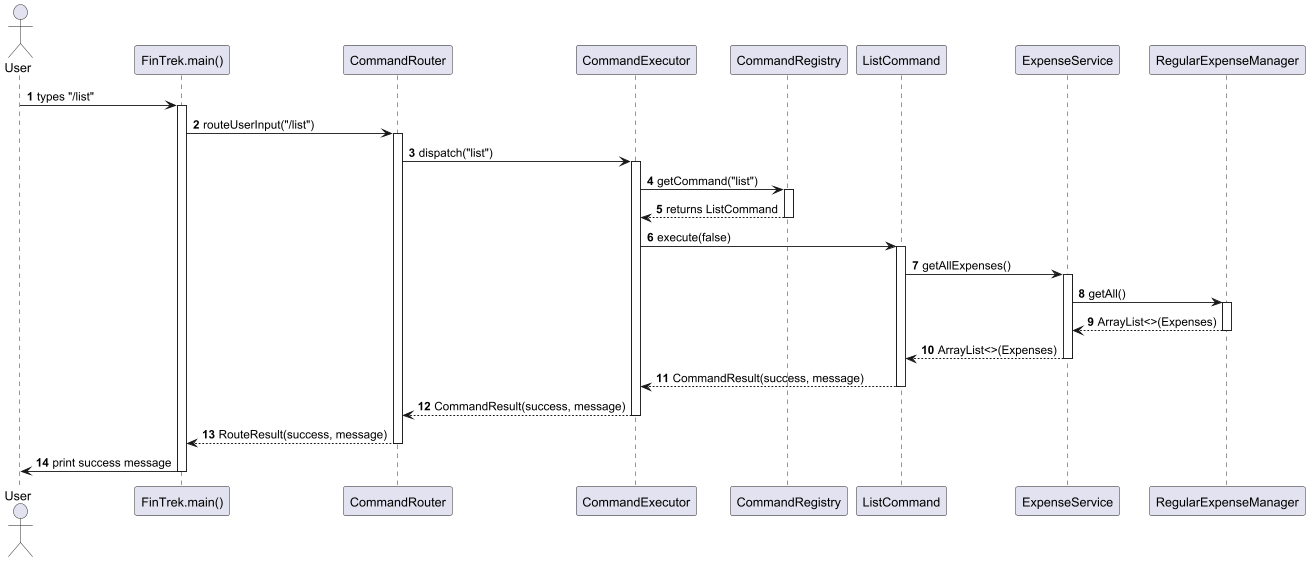
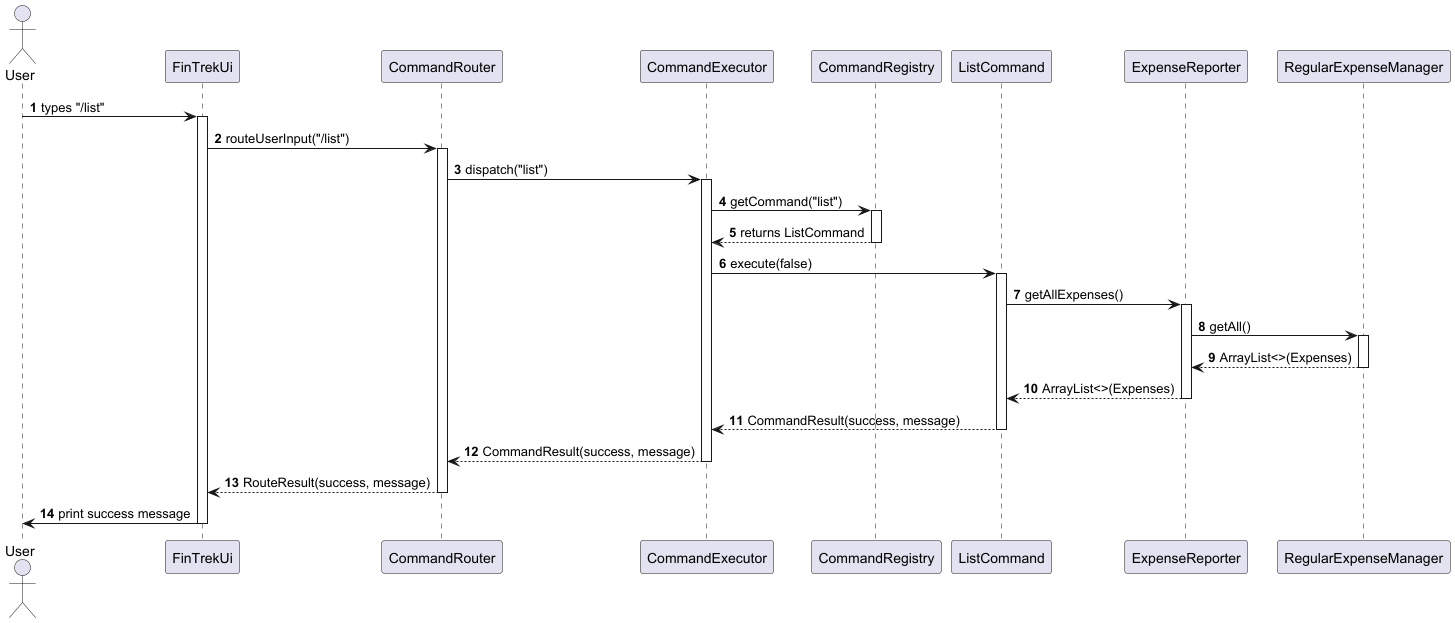
Update DG diagrams to fit the refactored code (new Ui class) and add PPP

diff --git a/docs/team/randust.md b/docs/team/randust.md
@@ -1,0 +1,20 @@
+# Hung Ming Kin's Project Portfolio Page
+## Project: FinTrek
+FinTrek is a simple and intuitive Command Line Interface (CLI) tool that helps users track their personal expenses. Users can quickly add, view, analyze, and manage their expenses using short commands.
+
+Given below are my contributions to the project.
+
+- New Feature: Added delete command that allows user to delete expenses.
+- New Feature: Added the ability to edit entered expenses.
+    - What it does: allow the users to edit expenses by specifying the field(s) that he wants to edit, e.g., description, amount, etc.
+    - Justification: This feature improves the product significantly because the user can make mistakes when typing in the expenses, and they won't need to re-enter the whole expense every time they make a mistake. The app should provide a convenient way to rectify them. 
+    - Highlights: The implementation was challenging as it requires to give users maximum flexibility to change whichever the field they want. This involves complex regex pattern matching of the user input string.
+    - Credits: ChatGPT teaches me the correct regex pattern matcher to accurately parse the user input.
+- Code Contributed: [RepoSense link](https://nus-cs2113-ay2425s2.github.io/tp-dashboard/?search=f12&sort=totalCommits%20dsc&sortWithin=title&timeframe=commit&mergegroup=&groupSelect=groupByRepos&breakdown=true&checkedFileTypes=docs~functional-code~test-code~other&tabOpen=true&tabType=authorship&tabAuthor=randust&tabRepo=AY2425S2-CS2113-F12-1%2Ftp%5Bmaster%5D&authorshipIsMergeGroup=false&authorshipFileTypes=docs~functional-code~test-code~other&authorshipIsBinaryFileTypeChecked=false&authorshipIsIgnoredFilesChecked=false&since=2025-02-21)
+- Contributions to the UG: edit command and CRUD commands.
+- Contributions to the DG: overall architecture class diagram, expense component class diagram, delete command sequence diagram, edit command sequence diagram and instruction for manual testing for command router.
+- Contributions to team based task: 
+    - setting up gradle (PR [#7](https://github.com/AY2425S2-CS2113-F12-1/tp/pull/7/files))
+    - maintaining issue tracker (Issues [#21](https://github.com/AY2425S2-CS2113-F12-1/tp/issues/21), [#22](https://github.com/AY2425S2-CS2113-F12-1/tp/issues/22), [#23](https://github.com/AY2425S2-CS2113-F12-1/tp/issues/23))
+    - Updating user/developer docs that are not specific to a feature: overall architecture class diagram in DG
+    - Code refactoring to ensure SRP (PR [#57](https://github.com/AY2425S2-CS2113-F12-1/tp/pull/57), [#74](https://github.com/AY2425S2-CS2113-F12-1/tp/pull/74), [#76](https://github.com/AY2425S2-CS2113-F12-1/tp/pull/76))

diff --git a/docs/DeveloperGuide.md b/docs/DeveloperGuide.md
@@ -236,7 +236,7 @@ Hopefully, students will be more financially conscious and able to manage their 
 ## Instructions for manual testing
 
 
-### Parser
+### CommandRouter
 
 **Purpose**: To verify that user input is correctly interpreted and dispatched to the appropriate command.
 
